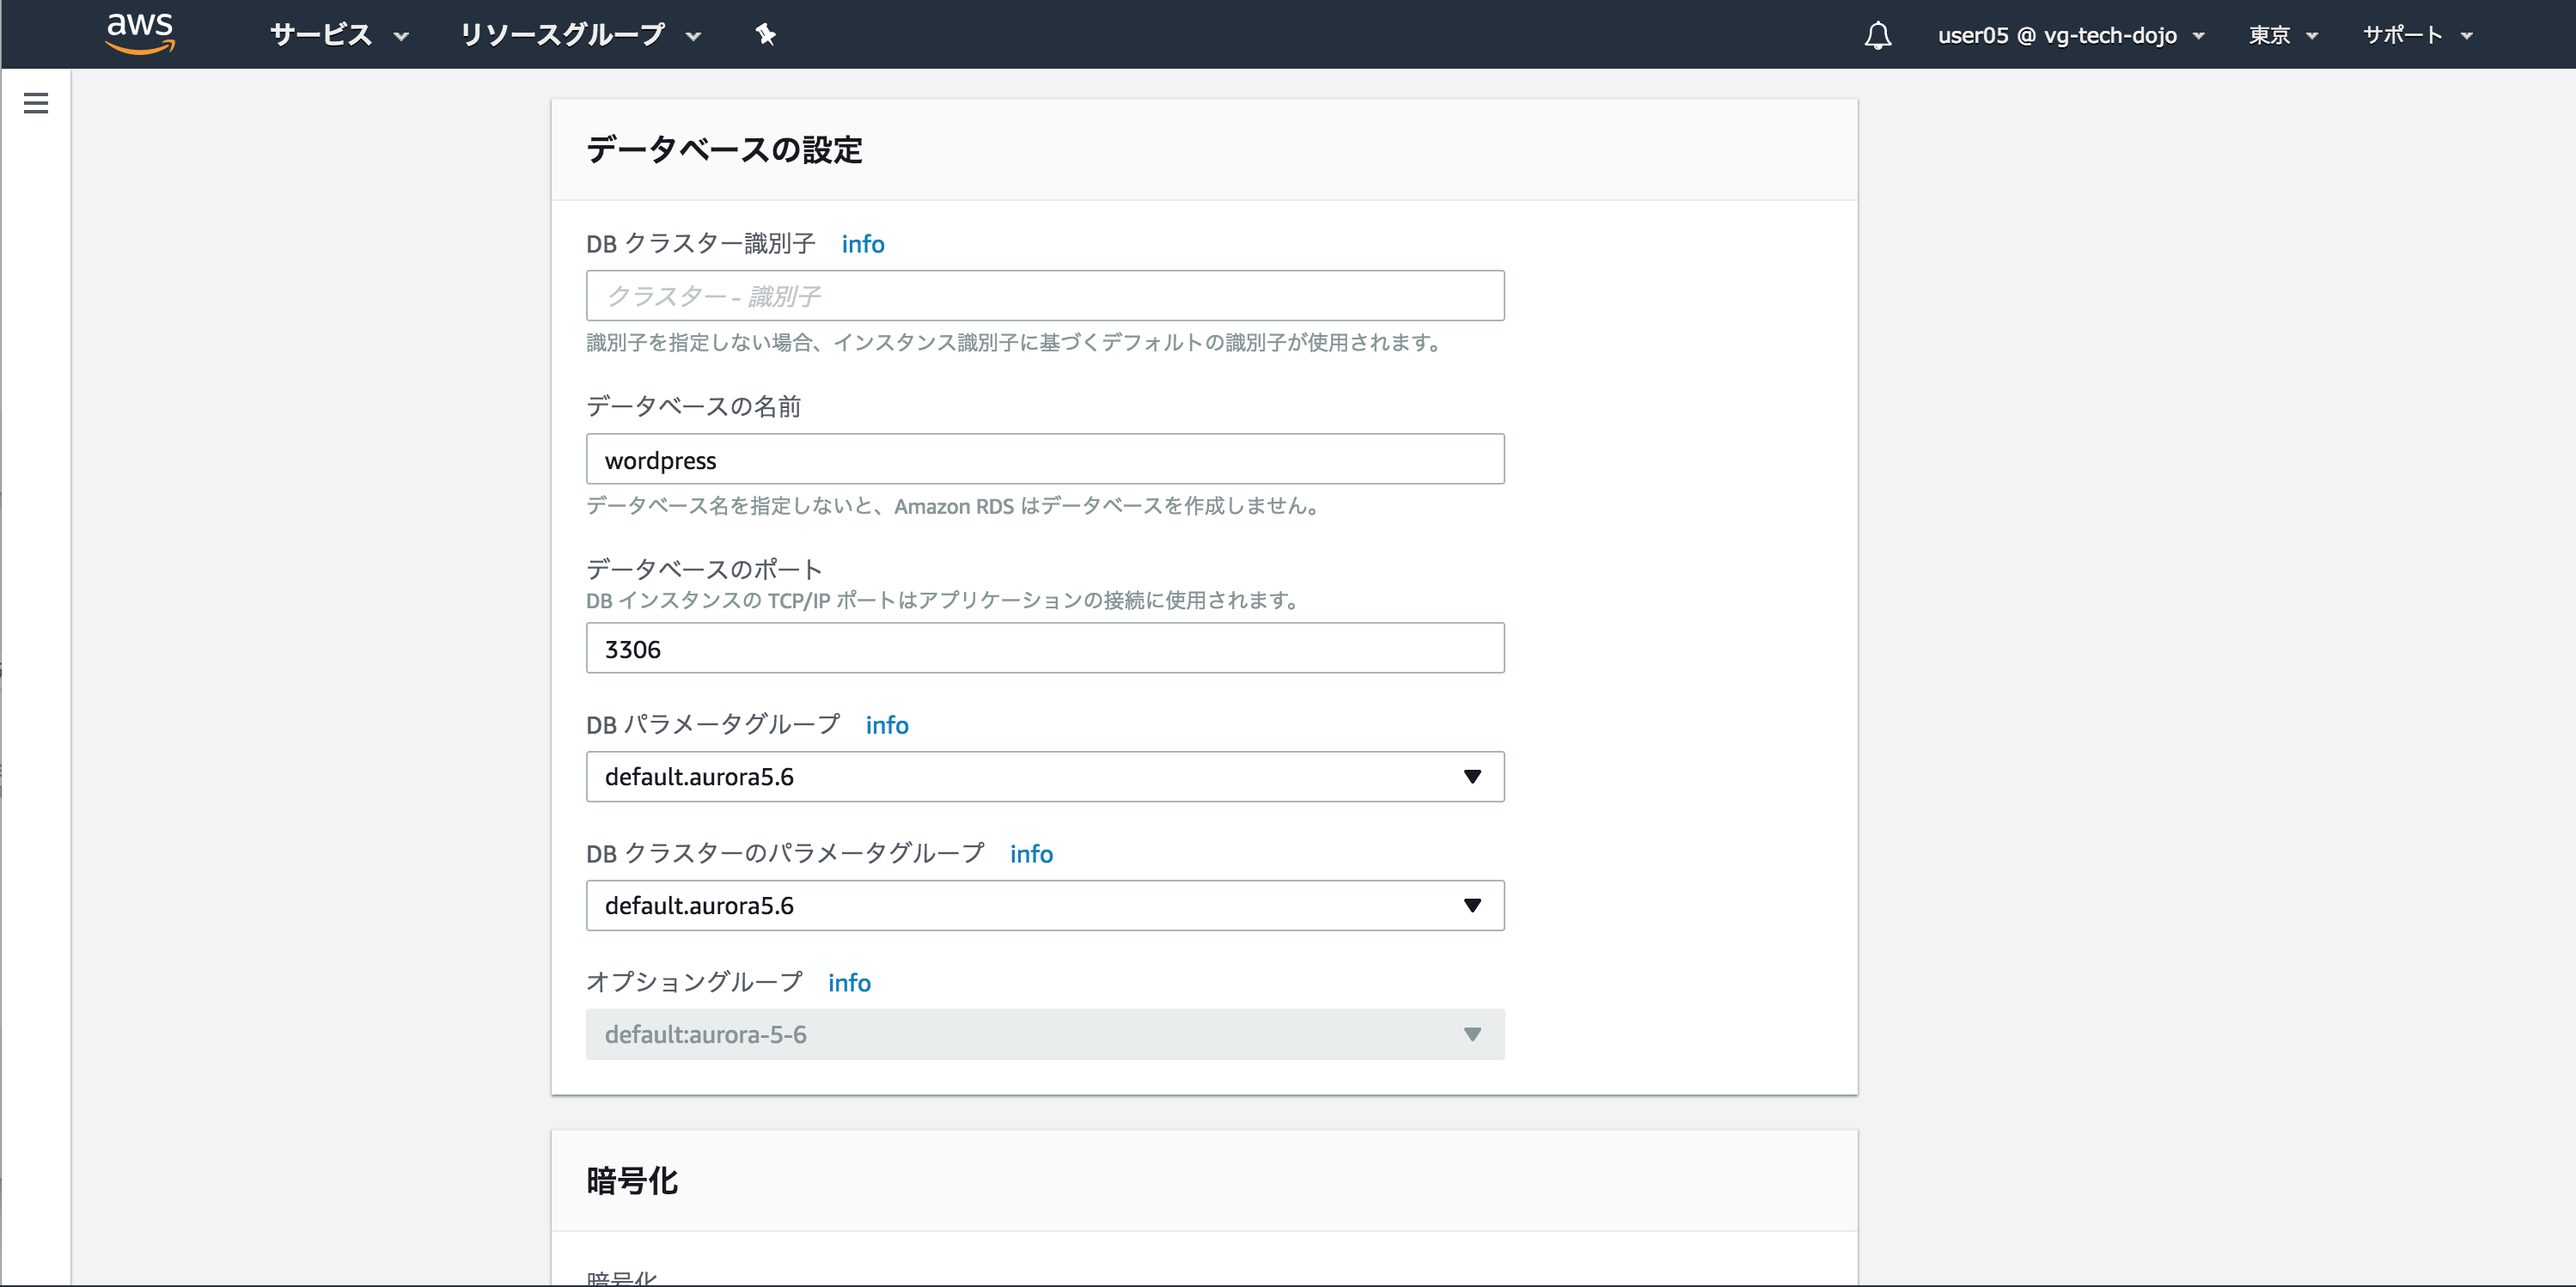
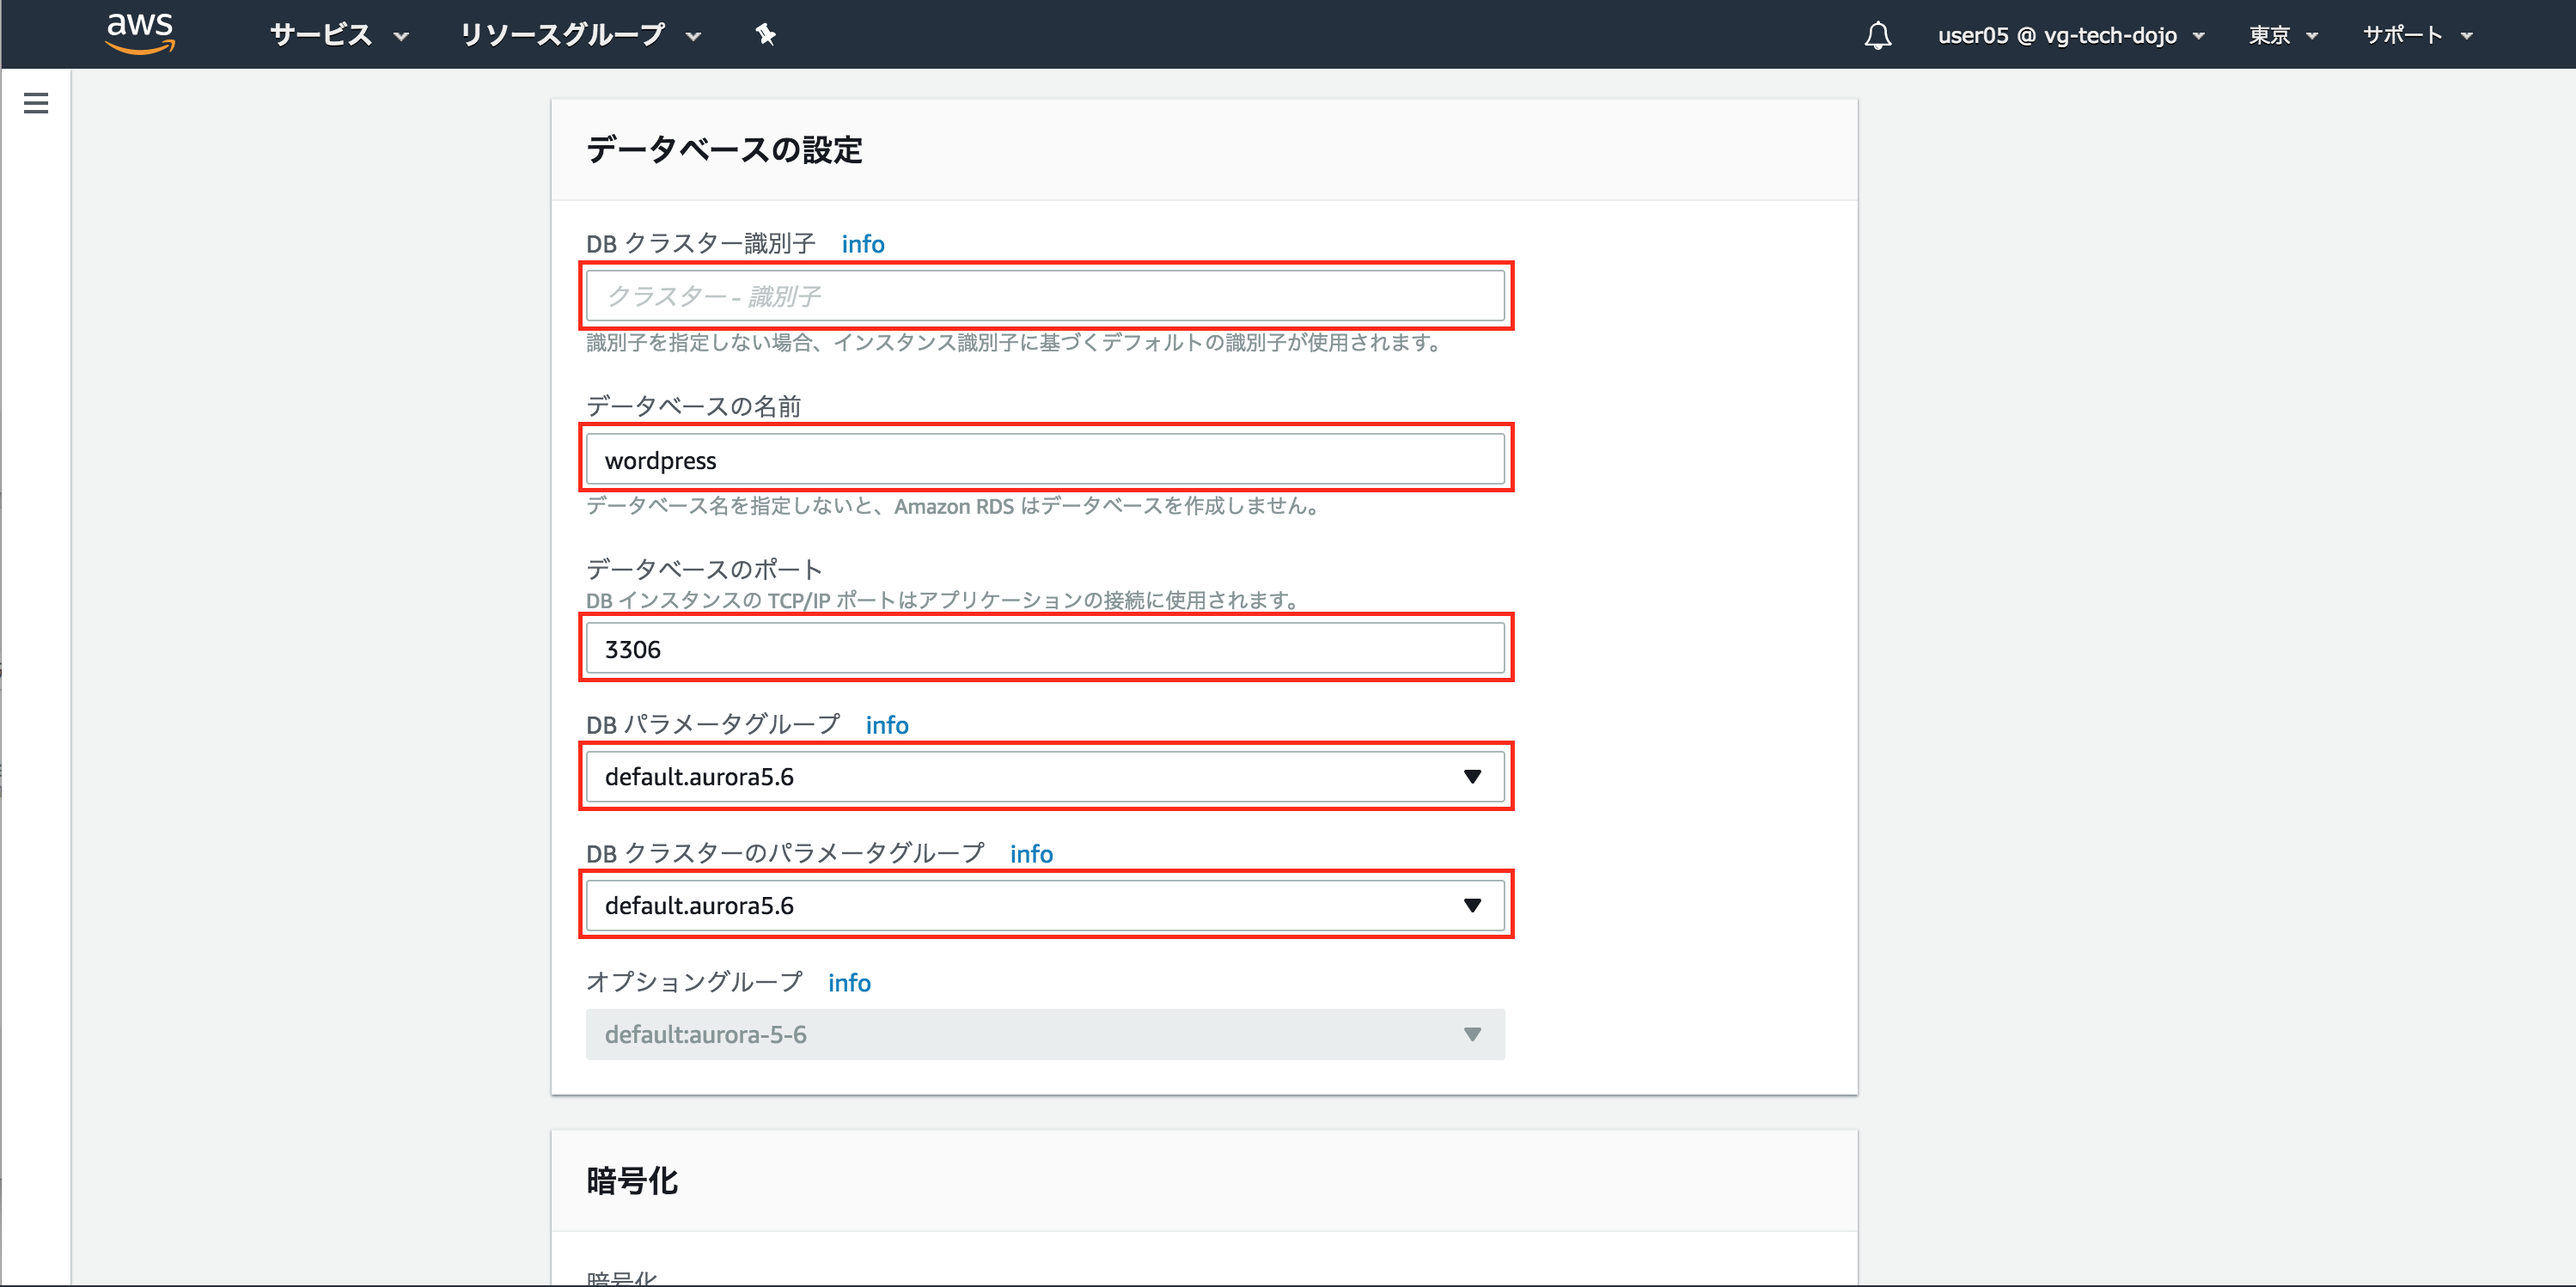
commit

diff --git a/Step-2.md b/Step-2.md
@@ -111,14 +111,23 @@ S3について調べてみましょう(5分)
 |VPCセキュリティグループ|既存のVPCセキュリティグループの選択|
 |VPCセキュリティグループを選択|作成したDB用のセキュリティグループを指定、合わせてdefaultは削除|
 
-
 ![rds-4-1](./images/step-2/rds-4-1.png "RDS4-1")
 
 ----
+**データベースの設定は以下の設定をしましょう**
+
+|項目|設定値|
+|:-|:-|
+|DBクラスター識別子|設定しない|
+|データベースの名前|wordpress|
+|データベースのポート|3306|
+|DBパラメータグループ|そのまま|
+|DBクラスターのパラメータグループ|そのまま|
 
 ![rds-4-2](./images/step-2/rds-4-2.png "RDS4-2")
 
 ----
+**一番下までスクロールし、拡張モニタリングを無効に設定、メンテナンス：マイナーバージョン自動アップグレードの無効化に設定、最後にDBインスタンスの作成ボタンを押下**
 
 ![rds-4-3](./images/step-2/rds-4-3.png "RDS4-3")
 
